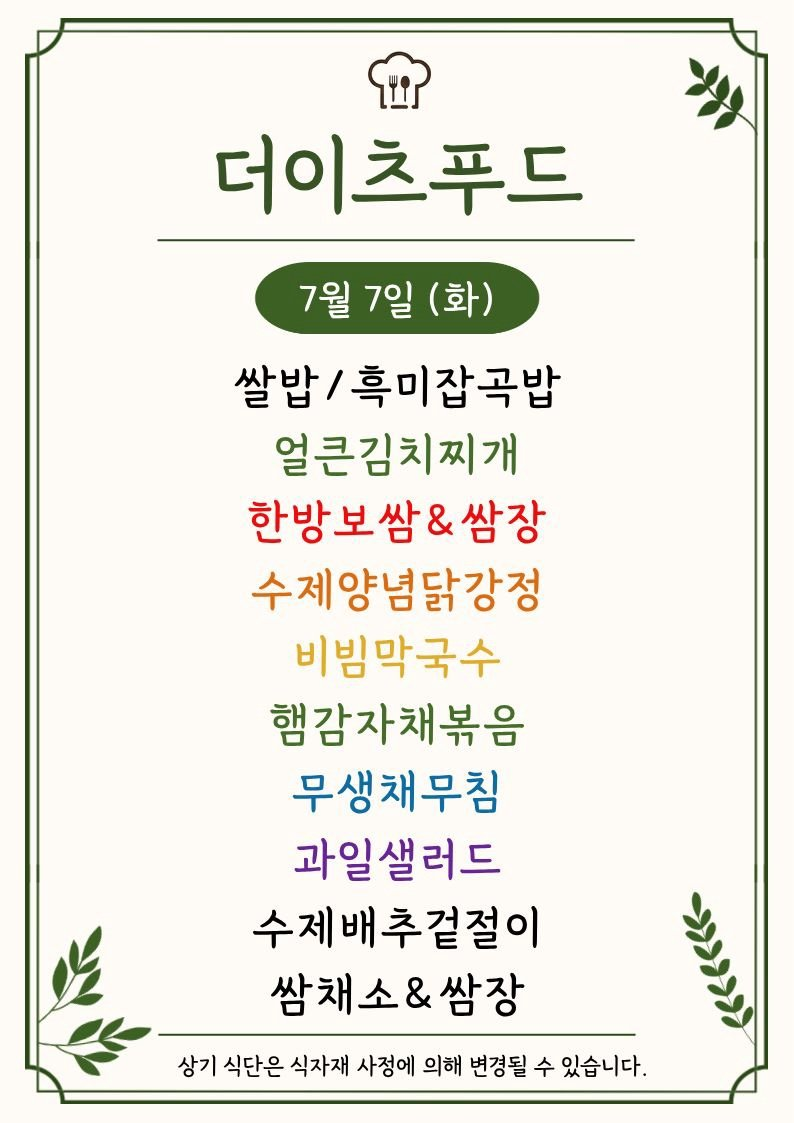
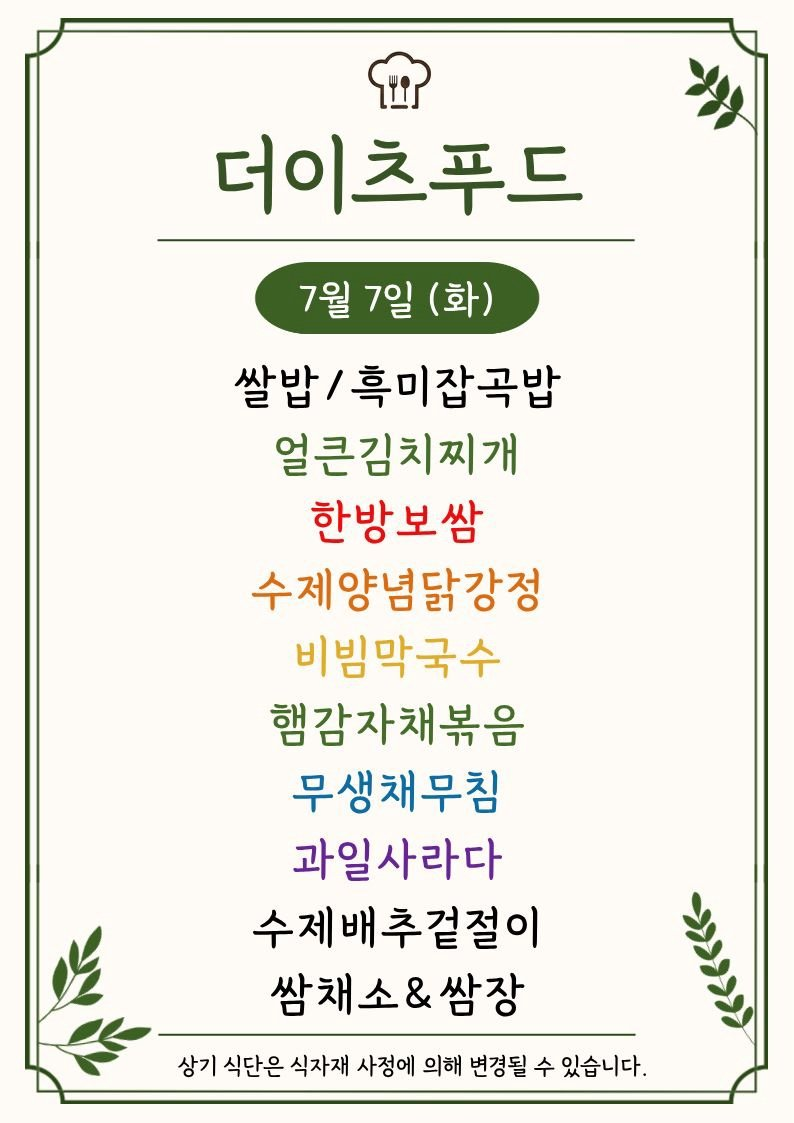
Update menu board assets

Changed region(s): [[0.3023, 0.4363, 0.6952, 0.4987], [0.3627, 0.748, 0.6348, 0.7792]]

diff --git a/menu-today/index.html b/menu-today/index.html
@@ -209,7 +209,7 @@
 
     <section class="meta-bar">
       <div class="meta-card"><div class="meta-label">기준 날짜</div><div class="meta-value">2026년 7월 7일 화요일</div></div>
-      <div class="meta-card"><div class="meta-label">최종 가져온 시간</div><div class="meta-value">2026-07-07 11:33:34</div></div>
+      <div class="meta-card"><div class="meta-label">최종 가져온 시간</div><div class="meta-value">2026-07-07 11:48:04</div></div>
       <div class="meta-card"><div class="meta-label">확인 완료</div><div class="meta-value">9개 식당</div></div>
       <div class="meta-card"><div class="meta-label">준비중</div><div class="meta-value">3개 채널</div></div>
     </section>
@@ -295,7 +295,7 @@
             <div class="sub">에이스테크노타워10차</div>
           </div>
         </div>
-        <div class="menu-inline-image"><img src="./images/thefoodsketch.png" alt="더푸드스케치 식단 이미지"></div><ul><li>얼갈이된장국</li><li>돈부리</li><li>애호박전 / 양념장</li><li>동꼴레파스타</li><li>청경채겉절이</li><li>LU) 꼬시래기 / 요구르트</li><li>가든샐러드 / 드레싱</li><li>배추겉절이 / 음료</li><li>디보요투</li><li>부리</li></ul>
+        <div class="menu-inline-image"><img src="./images/thefoodsketch.png" alt="더푸드스케치 식단 이미지"></div><ul><li>얼갈이된장국</li><li>돈부리</li><li>애호박전 / 양념장</li><li>동꼴레파스타</li><li>청경채겉절이</li><li>LU) 꼬시래기 / 요구르트</li><li>가든샐러드 &amp; 드레싱</li><li>배추겉절이 / 음료</li><li>디보요투</li><li>부리</li></ul>
       </article>
 
       <article class="restaurant-card">

diff --git a/guro-menu/index.html b/guro-menu/index.html
@@ -32,7 +32,7 @@
   </header>
   <section class="meta">
     <div><small>기준 날짜</small><strong>2026년 7월 7일 화요일</strong></div>
-    <div><small>최종 갱신</small><strong>2026-07-07 11:33:46</strong></div>
+    <div><small>최종 갱신</small><strong>2026-07-07 11:48:16</strong></div>
     <div><small>등록 식당</small><strong>5개</strong></div>
   </section>
   <div class="notice">공개 카카오 채널의 메뉴 이미지를 자동 수집하고 OCR로 정리합니다. 텍스트에 오타가 있을 수 있으니 식단 이미지를 함께 확인해 주세요.</div>
@@ -76,7 +76,7 @@
         </div>
         <img class="menu-image" src="./images/the-eats-food.png" alt="더이츠푸드 식단 이미지" loading="lazy">
         
-        <ul><li>더이즈푸드</li><li>쌀밥/흑미잡곡밥</li><li>얼큰김치찌개</li><li>한방보쌈&amp;쌈장</li><li>수제양념닭강정</li><li>비빔막국수</li><li>햄감자채볶음</li><li>무생채무침</li><li>과일샐러드</li><li>수제배추겉절이 =</li><li>쌈채소&amp;쌈장 Y</li></ul>
+        <ul><li>쌀밥/흑미잡곡밥</li><li>얼큰김치찌개</li><li>한방보쌈</li><li>수제양념닭강정</li><li>비빔망구수</li><li>햄감자채볶음</li><li>무생채무침</li><li>과일사라다</li><li>수제배추겉절이 =</li><li>쌈채소&amp;쌈장 Y</li></ul>
       </article>
 
       <article class="restaurant-card">
